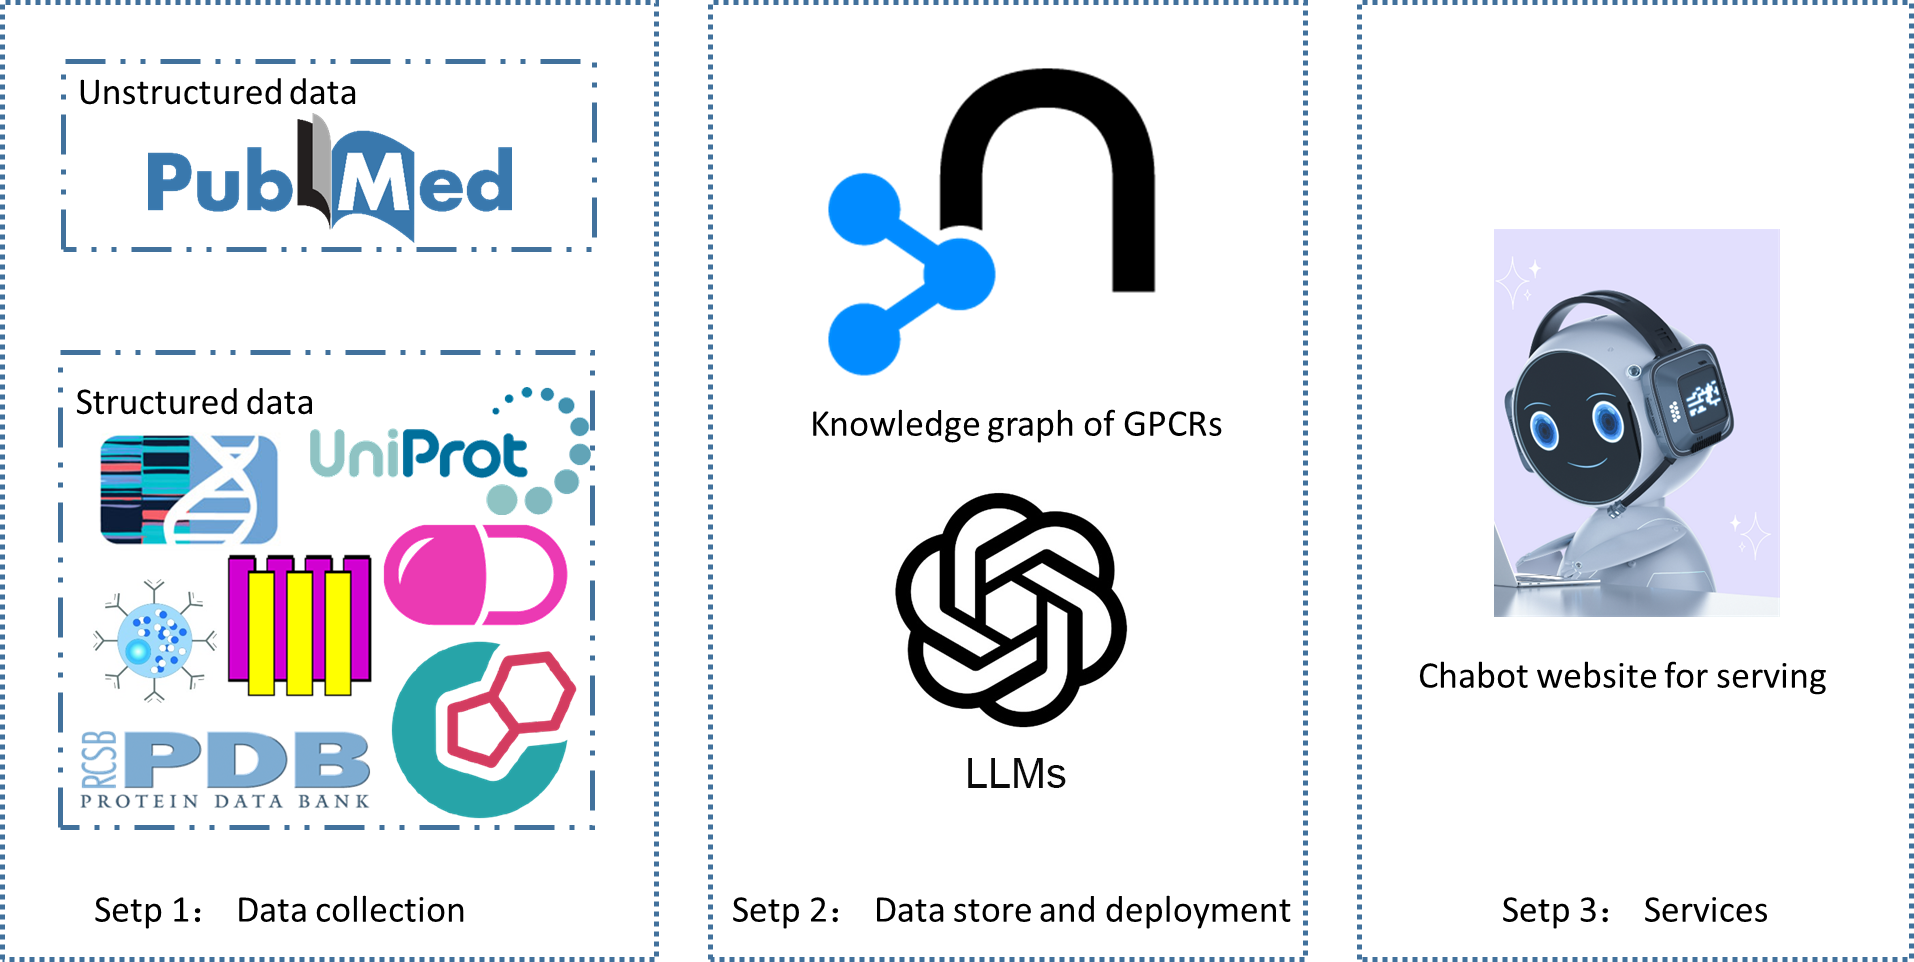
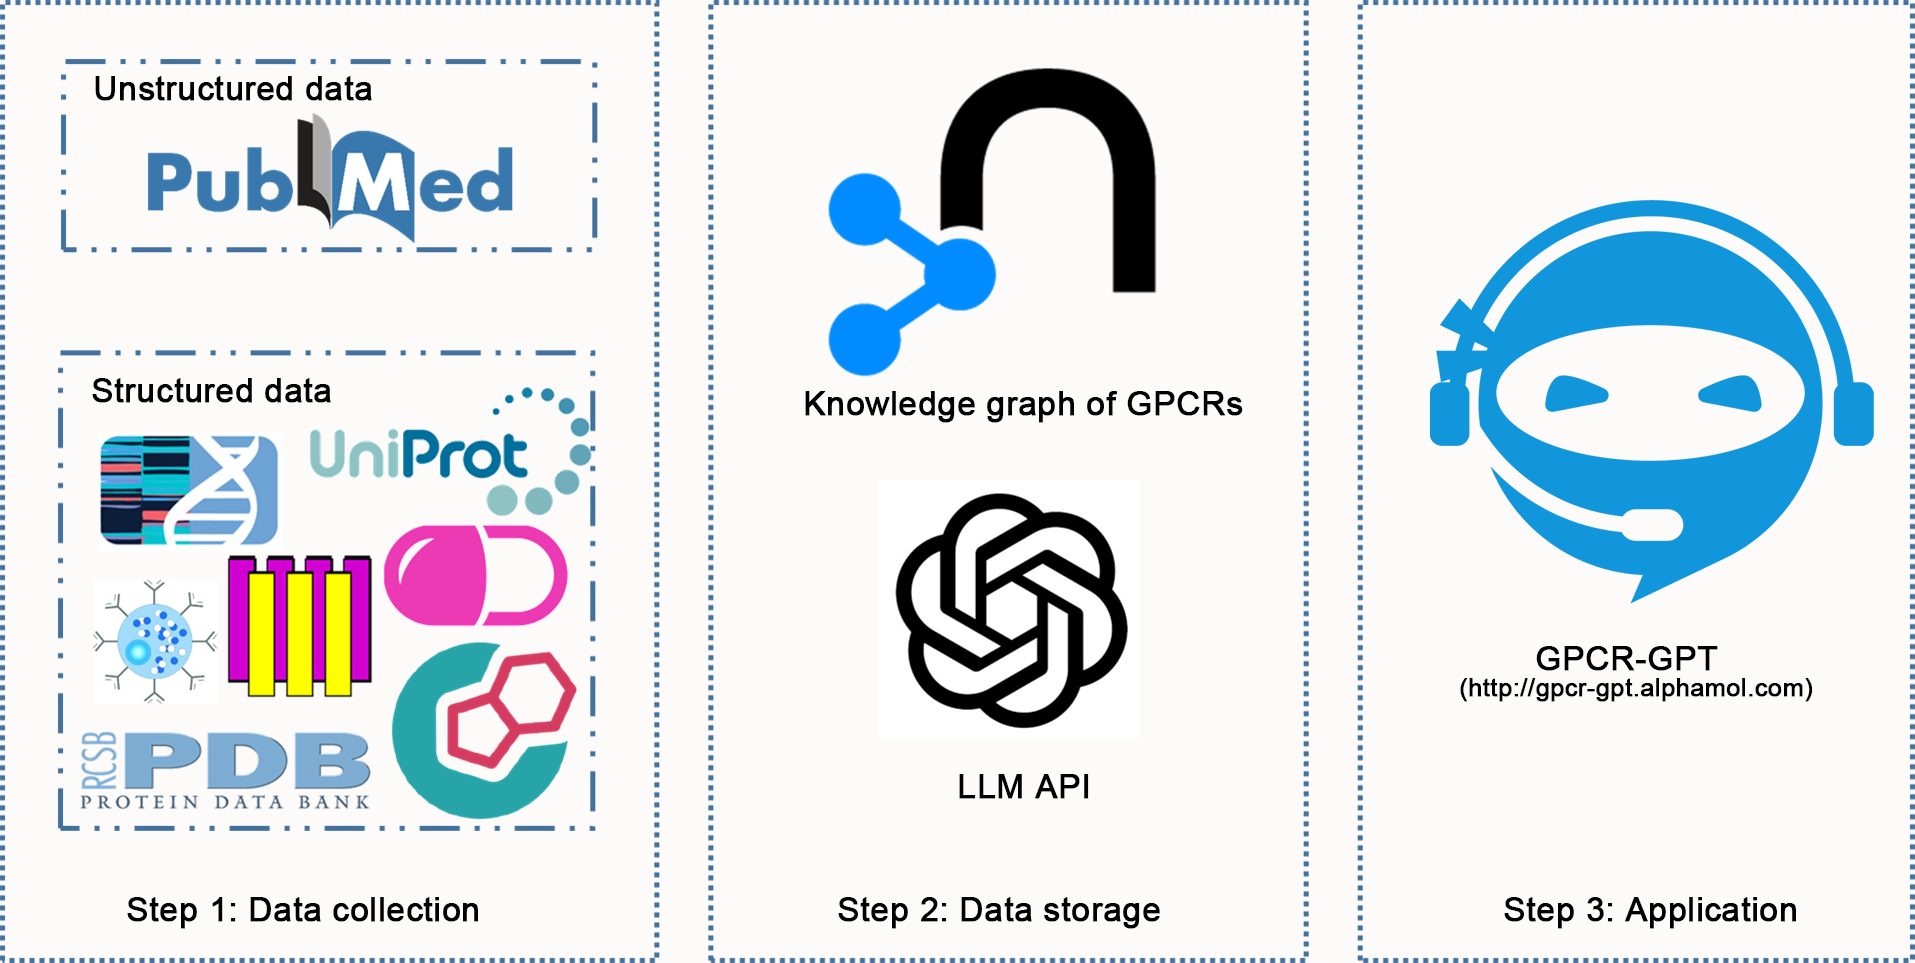
update

diff --git a/README.md b/README.md
@@ -6,11 +6,14 @@
 
 ## INTRODUCTION
 
+![image](static/drawing-1.svg)
+<p align="center">Figure 1. Dataflow of our application.</p>
+
 This project shows the possibility of using the Knowledge graph to improve the ability to answer questions in the large language model. We try to use language models to automatically extract the information of relational triples in literature, and then convert these relational triples into Knowledge graph and use them to improve the ability of big language models to answer user questions in professional fields.
-In this study, we chose G protein-coupled receptor, an important Protein superfamily. Use ChatGPT (https://openai.com/blog/chatgpt) to process literature abstracts in the PUBMED database (https://pubmed.ncbi.nlm.nih.gov/) and transform these unstructured text into structured relational triplets. In addition, we also collect GPCR related knowledge from other structured databases and convert this knowledge into relational triplet format. Then, all relational triples are embedded into the same Knowledge graph. Finally, the Knowledge graph was used to improve the ability of these language models to answer questions related to GPCR. When our website receives users' questions, we will first judge whether our Knowledge graph contains information of interest to users through keyword matching. If so, the graph will only answer the user's questions. If not, ChatGPT will answer the user's questions.
+In this study, we chose G protein-coupled receptor, an important Protein superfamily. Use ChatGPT (https://openai.com/blog/chatgpt) to process literature abstracts in the PUBMED database (https://pubmed.ncbi.nlm.nih.gov/) and transform these unstructured text into structured relational triplets. In addition, we also collect GPCR related knowledge from other structured databases and convert this knowledge into relational triplet format. Then, all relational triples are embedded into the same Knowledge graph. Finally, the Knowledge graph was used to improve the ability of these language models to answer questions related to GPCR.
 
 ![image](static/figure_1.png)
-<p align="center">Figure 1. Architecture of our research.</p>
+<p align="center">Figure 2. Architecture of our research.</p>
 
 ## installation
 
@@ -47,7 +50,7 @@ python app.py
 Please ensure the 5000 port in you machine is available.
 
 ![image](static/figure_2.svg)
-<p align="center">Figure 2. A demo of knowledge graph.</p>
+<p align="center">Figure 3. A demo of knowledge graph.</p>
 
 
 ## contact
